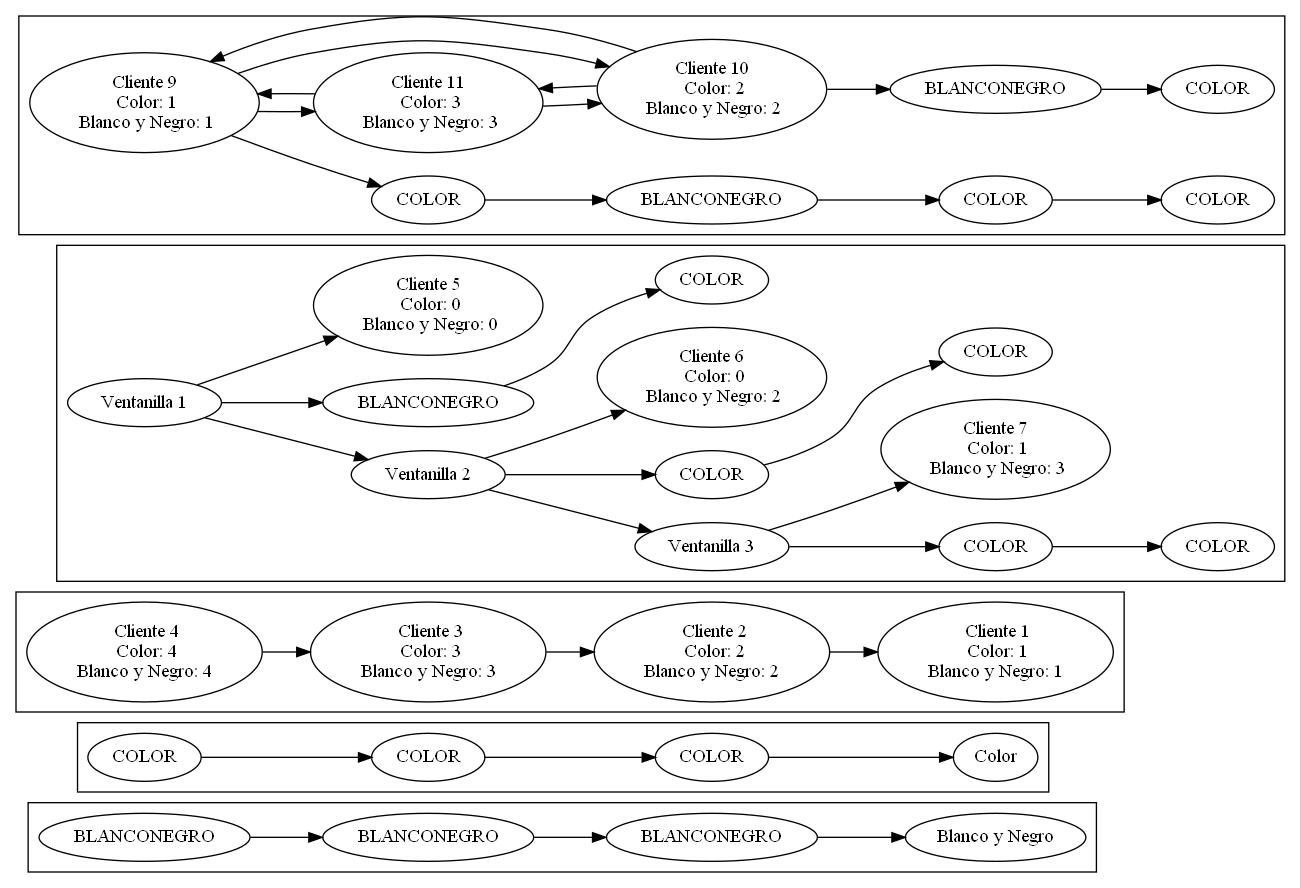
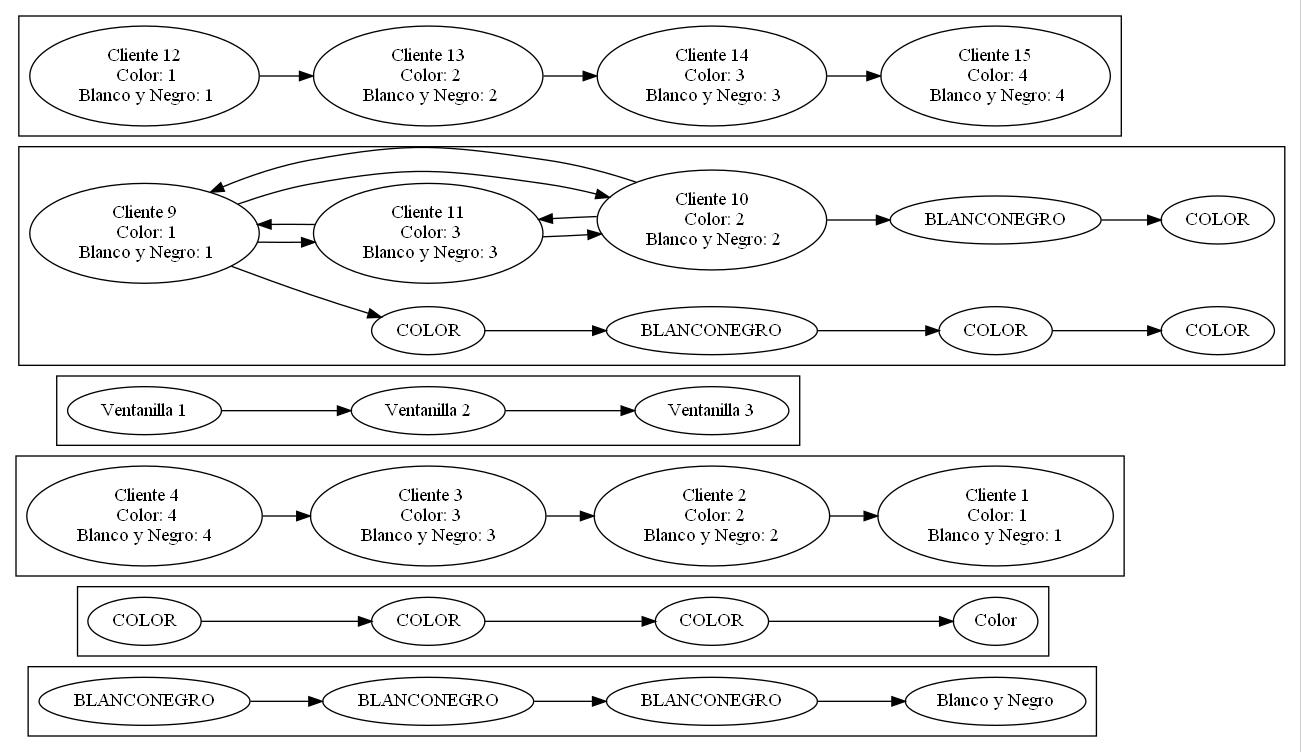
graficar estructuras 2

diff --git a/src/Impl/ListaVentanillas.java b/src/Impl/ListaVentanillas.java
@@ -17,55 +17,57 @@ import Modelos.Ventanilla;
  * @author Xhunik_Local
  */
 public class ListaVentanillas extends LinkedList<Ventanilla> {
-    public void insertarClienteVentanilla(Cliente cliente){
-        NodoSimple<Ventanilla> auxc = this.head;
-            while(auxc != null){
-                if (auxc.dato.cliente == null){
-                    auxc.dato.cliente = cliente;
-                    return;
-                }
-                auxc = auxc.siguiente;
-            }
-    }
-    
-    public void ingresarUnElementoPila(){
-        NodoSimple<Ventanilla> auxc = this.head;
-            while(auxc != null){
-                if (auxc.dato.cliente != null){
-                    if (auxc.dato.cliente.imgColor > 0){
-                        auxc.dato.pilaImagenes.push(new Imagen(TipoImagen.COLOR, auxc.dato.id));
-                        auxc.dato.cliente.imgColor--;
-                    }else if (auxc.dato.cliente.imgBlancoNegro > 0){
-                        auxc.dato.pilaImagenes.push(new Imagen(TipoImagen.BLANCONEGRO, auxc.dato.id));
-                        auxc.dato.cliente.imgBlancoNegro--;
-                    }
-                    
-                }
-                auxc = auxc.siguiente;
-            }
-    }
+//    public void insertarClienteVentanilla(Cliente cliente){
+//        NodoSimple<Ventanilla> auxc = this.head;
+//            while(auxc != null){
+//                if (auxc.dato.cliente == null){
+//                    auxc.dato.cliente = cliente;
+//                    return;
+//                }
+//                auxc = auxc.siguiente;
+//            }
+//    }
+//    
+//    public void ingresarUnElementoPila(){
+//        NodoSimple<Ventanilla> auxc = this.head;
+//            while(auxc != null){
+//                if (auxc.dato.cliente != null){
+//                    if (auxc.dato.cliente.imgColor > 0){
+//                        auxc.dato.pilaImagenes.push(new Imagen(TipoImagen.COLOR, auxc.dato.id));
+//                        auxc.dato.cliente.imgColor--;
+//                    }else if (auxc.dato.cliente.imgBlancoNegro > 0){
+//                        auxc.dato.pilaImagenes.push(new Imagen(TipoImagen.BLANCONEGRO, auxc.dato.id));
+//                        auxc.dato.cliente.imgBlancoNegro--;
+//                    }
+//                    
+//                }
+//                auxc = auxc.siguiente;
+//            }
+//    }
     
     public String graph(){
         StringBuilder str = new StringBuilder();
-        NodoSimple<Ventanilla> auxc = this.head;
-            while(auxc != null){
-                str.append(auxc.dato.id).append("[label=\" ").append(auxc.dato.nombre).append(" \"];\n");
+        if(!this.isVoid()){
+            NodoSimple<Ventanilla> auxc = this.head;
+                while(auxc != null){
+                    str.append(auxc.dato.id).append("[label=\" ").append(auxc.dato.nombre).append(" \"];\n");
 
-                if (auxc.siguiente != null)
-                    str.append(auxc.dato.id).append("->").append(auxc.siguiente.dato.id).append(";\n");
+                    if (auxc.siguiente != null)
+                        str.append(auxc.dato.id).append("->").append(auxc.siguiente.dato.id).append(";\n");
 
-                str.append(auxc.dato.pilaImagenes.graph(auxc.dato.id));
-                str.append(auxc.dato.cliente.id).append("[label=\"")
-                        .append(auxc.dato.cliente.nombre)
-                        .append("\n Color: ").append(auxc.dato.cliente.imgColor)
-                        .append("\n Blanco y Negro: ").append(auxc.dato.cliente.imgBlancoNegro).append("\"];\n");
-                
-                str.append(auxc.dato.id).append("->").append(auxc.dato.cliente.id)
-                        .append(";\n");
-                
-                auxc = auxc.siguiente;
-            }
-            
+                    str.append(auxc.dato.pilaImagenes.graph(auxc.dato.id));
+                    if(auxc.dato.cliente != null){
+                        str.append(auxc.dato.cliente.id).append("[label=\"")
+                                .append(auxc.dato.cliente.nombre)
+                                .append("\n Color: ").append(auxc.dato.cliente.imgColor)
+                                .append("\n Blanco y Negro: ").append(auxc.dato.cliente.imgBlancoNegro).append("\"];\n");
+
+                        str.append(auxc.dato.id).append("->").append(auxc.dato.cliente.id)
+                                .append(";\n");
+                    }
+                    auxc = auxc.siguiente;
+                }
+        }
         return str.toString();
     }
 }

diff --git a/src/edd/proyecto/fase1/EddProyectoFase1.java b/src/edd/proyecto/fase1/EddProyectoFase1.java
@@ -7,6 +7,7 @@ package edd.proyecto.fase1;
 
 import Enums.TipoImagen;
 import Impl.ColaRecepcion;
+import Impl.ListaClientesAtendidos;
 import Impl.ListaClientesEspera;
 import Impl.ListaVentanillas;
 import Modelos.Cliente;
@@ -43,6 +44,7 @@ class Logic {
     ColaRecepcion colaRecepcion;
     ListaVentanillas listaVentanillas;
     ListaClientesEspera listaEspera;
+    ListaClientesAtendidos listaAtendidos;
     
     public Logic() {
         blancoNegroImpresora = new Impresora(TipoImagen.BLANCONEGRO);
@@ -50,6 +52,7 @@ class Logic {
         colaRecepcion = new ColaRecepcion();
         listaVentanillas = new ListaVentanillas();
         listaEspera = new ListaClientesEspera();
+        listaAtendidos = new ListaClientesAtendidos();
     }
     
     public void exec(){
@@ -88,13 +91,13 @@ class Logic {
         Cliente c7 = new Cliente("Cliente 7", 3, 3);
         Cliente c8 = new Cliente("Cliente 8", 4, 4);
 
-        listaVentanillas.insertarClienteVentanilla(c5);
-        listaVentanillas.insertarClienteVentanilla(c6);
-        listaVentanillas.insertarClienteVentanilla(c7);
-        listaVentanillas.insertarClienteVentanilla(c8);
+//        listaVentanillas.insertarClienteVentanilla(c5);
+//        listaVentanillas.insertarClienteVentanilla(c6);
+//        listaVentanillas.insertarClienteVentanilla(c7);
+//        listaVentanillas.insertarClienteVentanilla(c8);
         
-        listaVentanillas.ingresarUnElementoPila();
-        listaVentanillas.ingresarUnElementoPila();
+//        listaVentanillas.ingresarUnElementoPila();
+//        listaVentanillas.ingresarUnElementoPila();
 //        listaVentanillas.ingresarUnElementoPila();
 //        listaVentanillas.ingresarUnElementoPila();
 //        listaVentanillas.ingresarUnElementoPila();
@@ -114,6 +117,16 @@ class Logic {
         listaEspera.addToEnd(c9);
         listaEspera.addToEnd(c10);
         listaEspera.addToEnd(c11);
+        
+        
+        Cliente c12 = new Cliente("Cliente 12", 1, 1);
+        listaAtendidos.addToEnd(c12);
+        Cliente c13 = new Cliente("Cliente 13", 2, 2);
+        listaAtendidos.addToEnd(c13);
+        Cliente c14 = new Cliente("Cliente 14", 3, 3);
+        listaAtendidos.addToEnd(c14);
+        Cliente c15 = new Cliente("Cliente 15", 4, 4);
+        listaAtendidos.addToEnd(c15);
     }
     
     public void graph(){
@@ -148,6 +161,11 @@ class Logic {
             // Lista espera
             str.append("subgraph clusterListaEspera {\n");
             str.append(listaEspera.graph());
+            str.append("}");
+            
+            // Lista atendidos
+            str.append("subgraph clusterListaAtendidos {\n");
+            str.append(listaAtendidos.graph());
             str.append("}");
             
             // End del archivo

diff --git a/src/Impl/ListaClientesAtendidos.java b/src/Impl/ListaClientesAtendidos.java
@@ -1,0 +1,35 @@
+/*
+ * To change this license header, choose License Headers in Project Properties.
+ * To change this template file, choose Tools | Templates
+ * and open the template in the editor.
+ */
+package Impl;
+
+import Estructuras.LinkedList;
+import Estructuras.NodoSimple;
+import Modelos.Cliente;
+/**
+ *
+ * @author Xhunik_Local
+ */
+public class ListaClientesAtendidos extends LinkedList<Cliente> {
+    public String graph(){
+        StringBuilder str = new StringBuilder();
+        if(!this.isVoid()){
+            NodoSimple<Cliente> auxc = this.head;
+            while(auxc != null){
+                str.append(auxc.dato.id).append("[label=\"").append(auxc.dato.nombre)
+                    .append("\n Color: ").append(auxc.dato.imgColor)
+                    .append("\n Blanco y Negro: ").append(auxc.dato.imgBlancoNegro)
+                        .append("\"];\n");
+
+                if (auxc.siguiente != null)
+                    str.append(auxc.dato.id).append("->").append(auxc.siguiente.dato.id).append(";\n");
+
+                auxc = auxc.siguiente;
+            }        
+        }
+            
+        return str.toString();
+    }
+}

diff --git a/src/Modelos/Cliente.java b/src/Modelos/Cliente.java
@@ -18,10 +18,10 @@ public class Cliente {
     public String nombre;
     public int imgColor;
     public int imgBlancoNegro;
-    private int imgColorToProcess;
-    private int imgColorProcessed;
-    private int imgBlancoNegroToProcess;
-    private int imgBlancoNegroProcessed;
+//    private int imgColorToProcess;
+//    private int imgColorProcessed;
+//    private int imgBlancoNegroToProcess;
+//    private int imgBlancoNegroProcessed;
     public ListaImpresiones listaImages;
 
     public Cliente(String nombre) {
@@ -32,11 +32,8 @@ public class Cliente {
 
     public Cliente(String nombre, int imgColor, int imgBlancoNegro) {
         this(nombre);
-        this.imgColorToProcess = this.imgColor = imgColor;
-        this.imgBlancoNegroToProcess = this.imgBlancoNegro = imgBlancoNegro;
-        
-        this.imgBlancoNegroProcessed = 0;
-        this.imgColorProcessed = 0;
+        this.imgColor = imgColor;
+        this.imgBlancoNegro = imgBlancoNegro;
     }
     
 //    public boolean processColor(){
